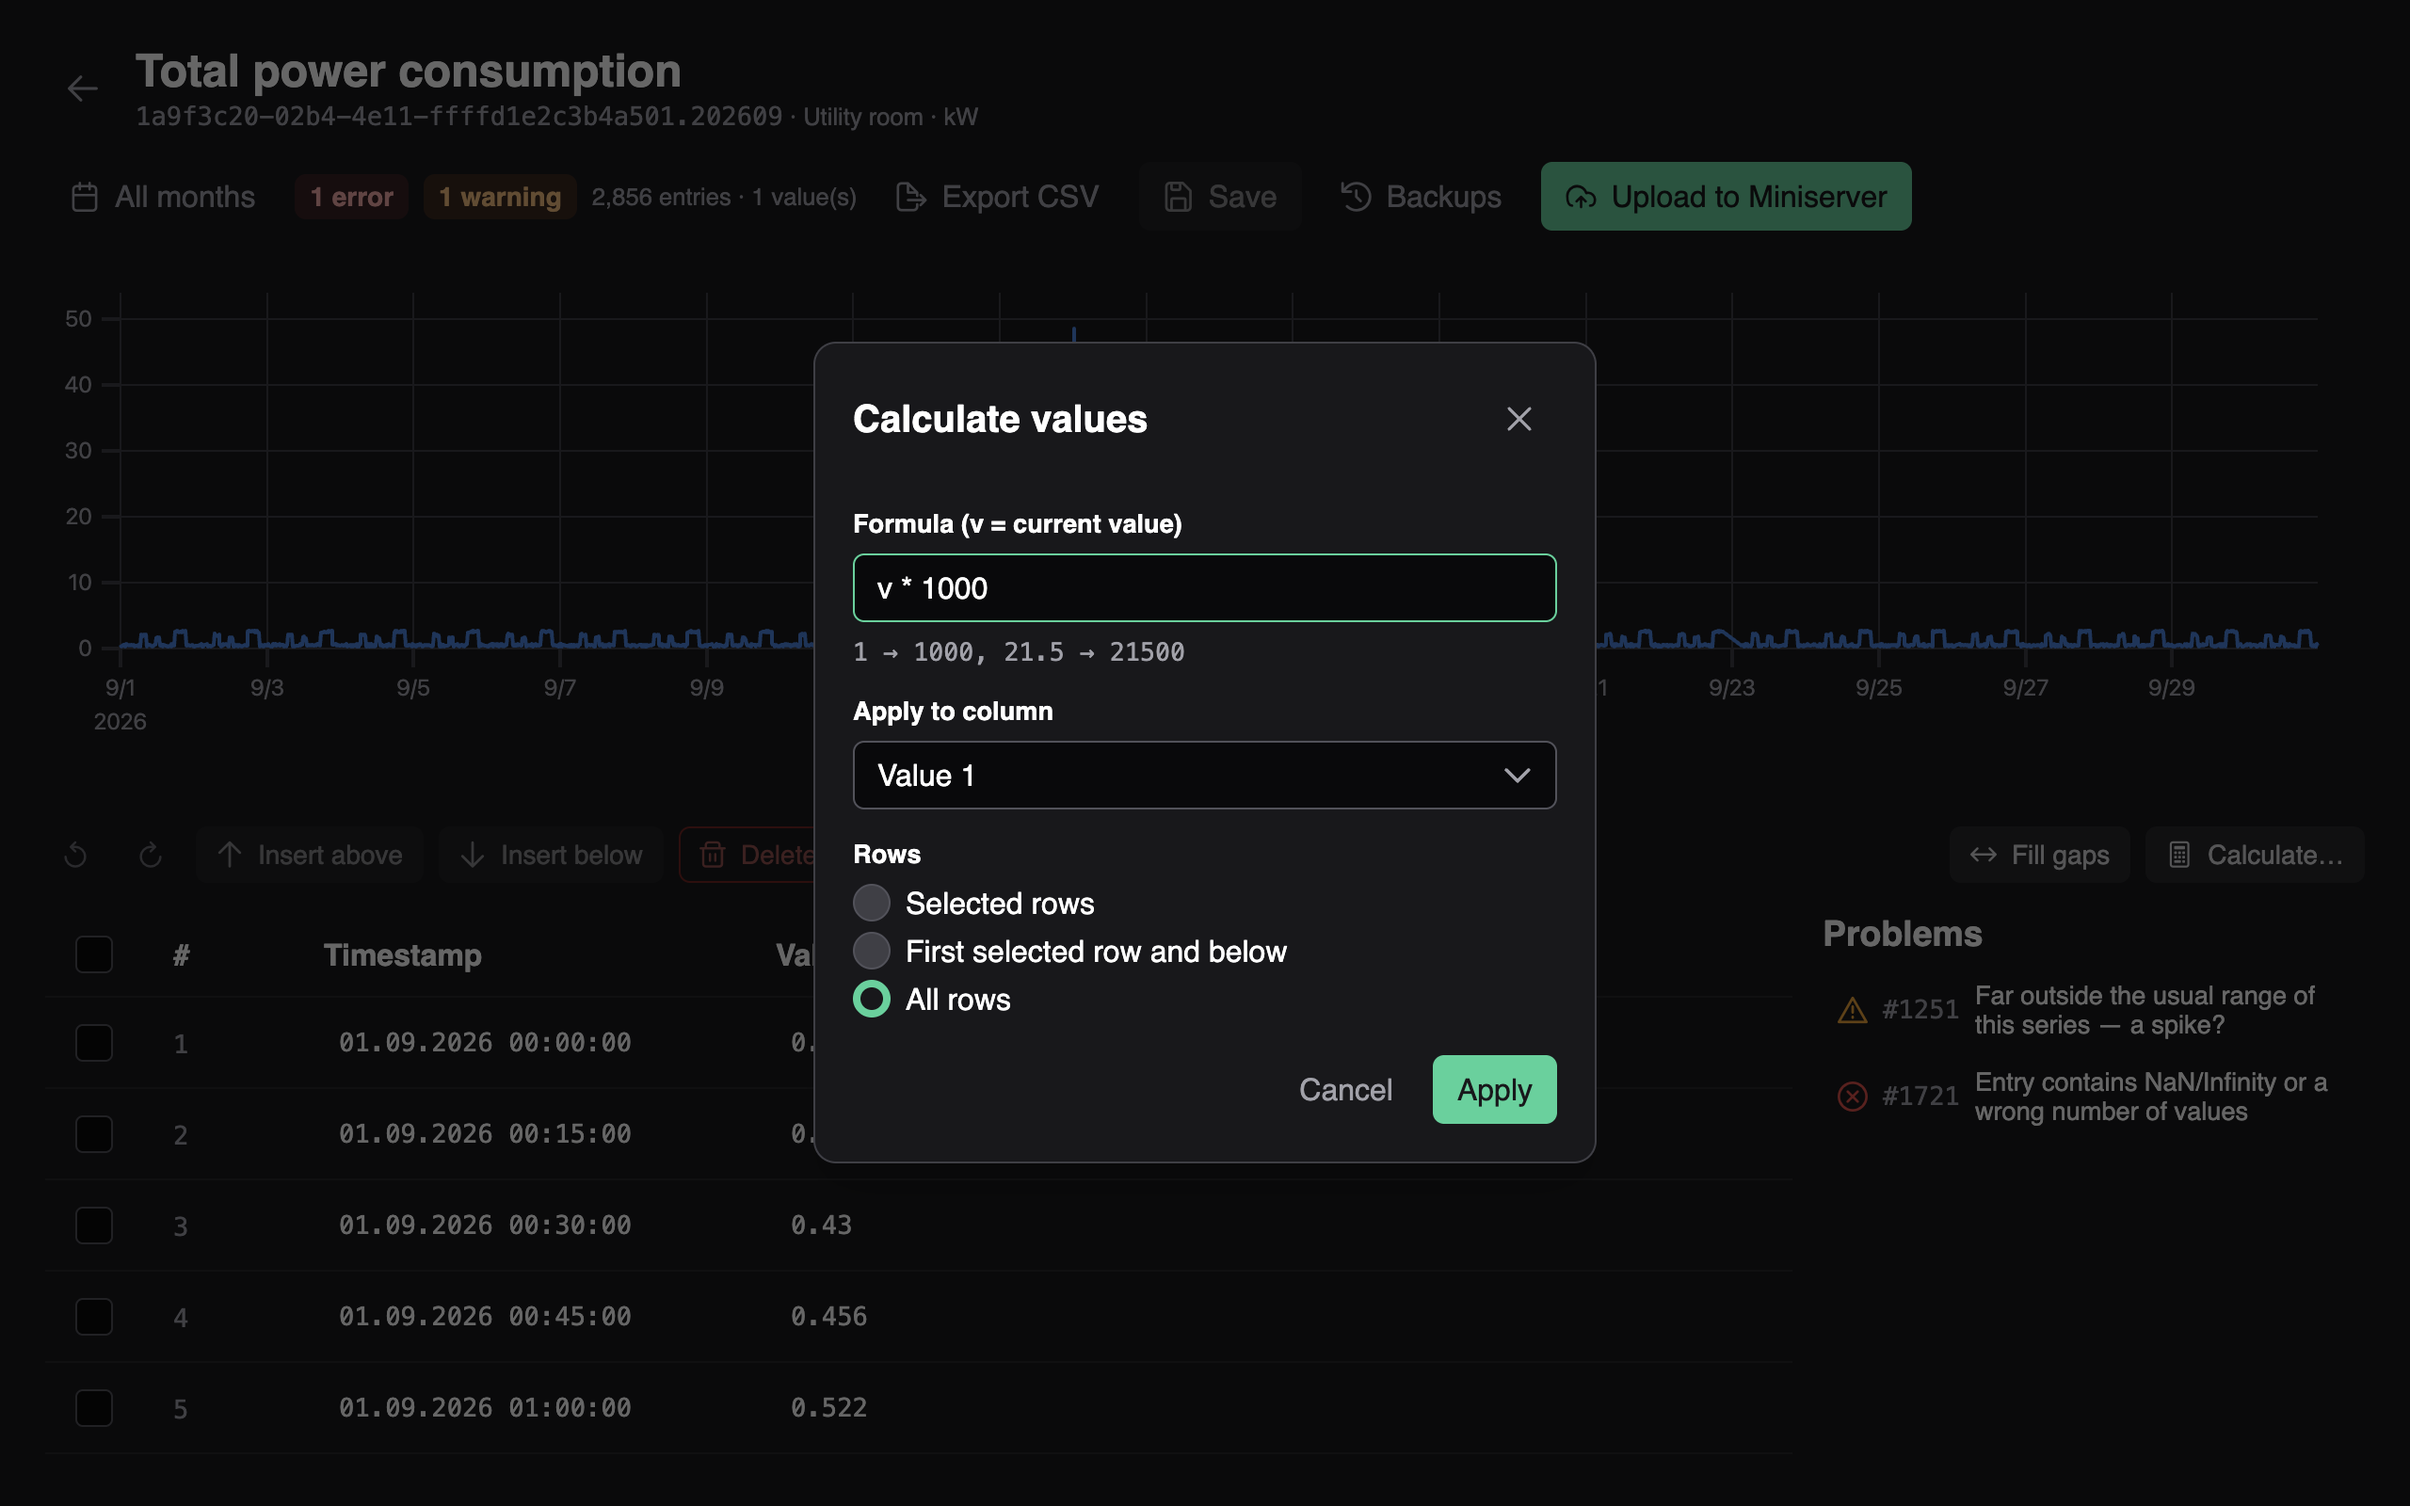
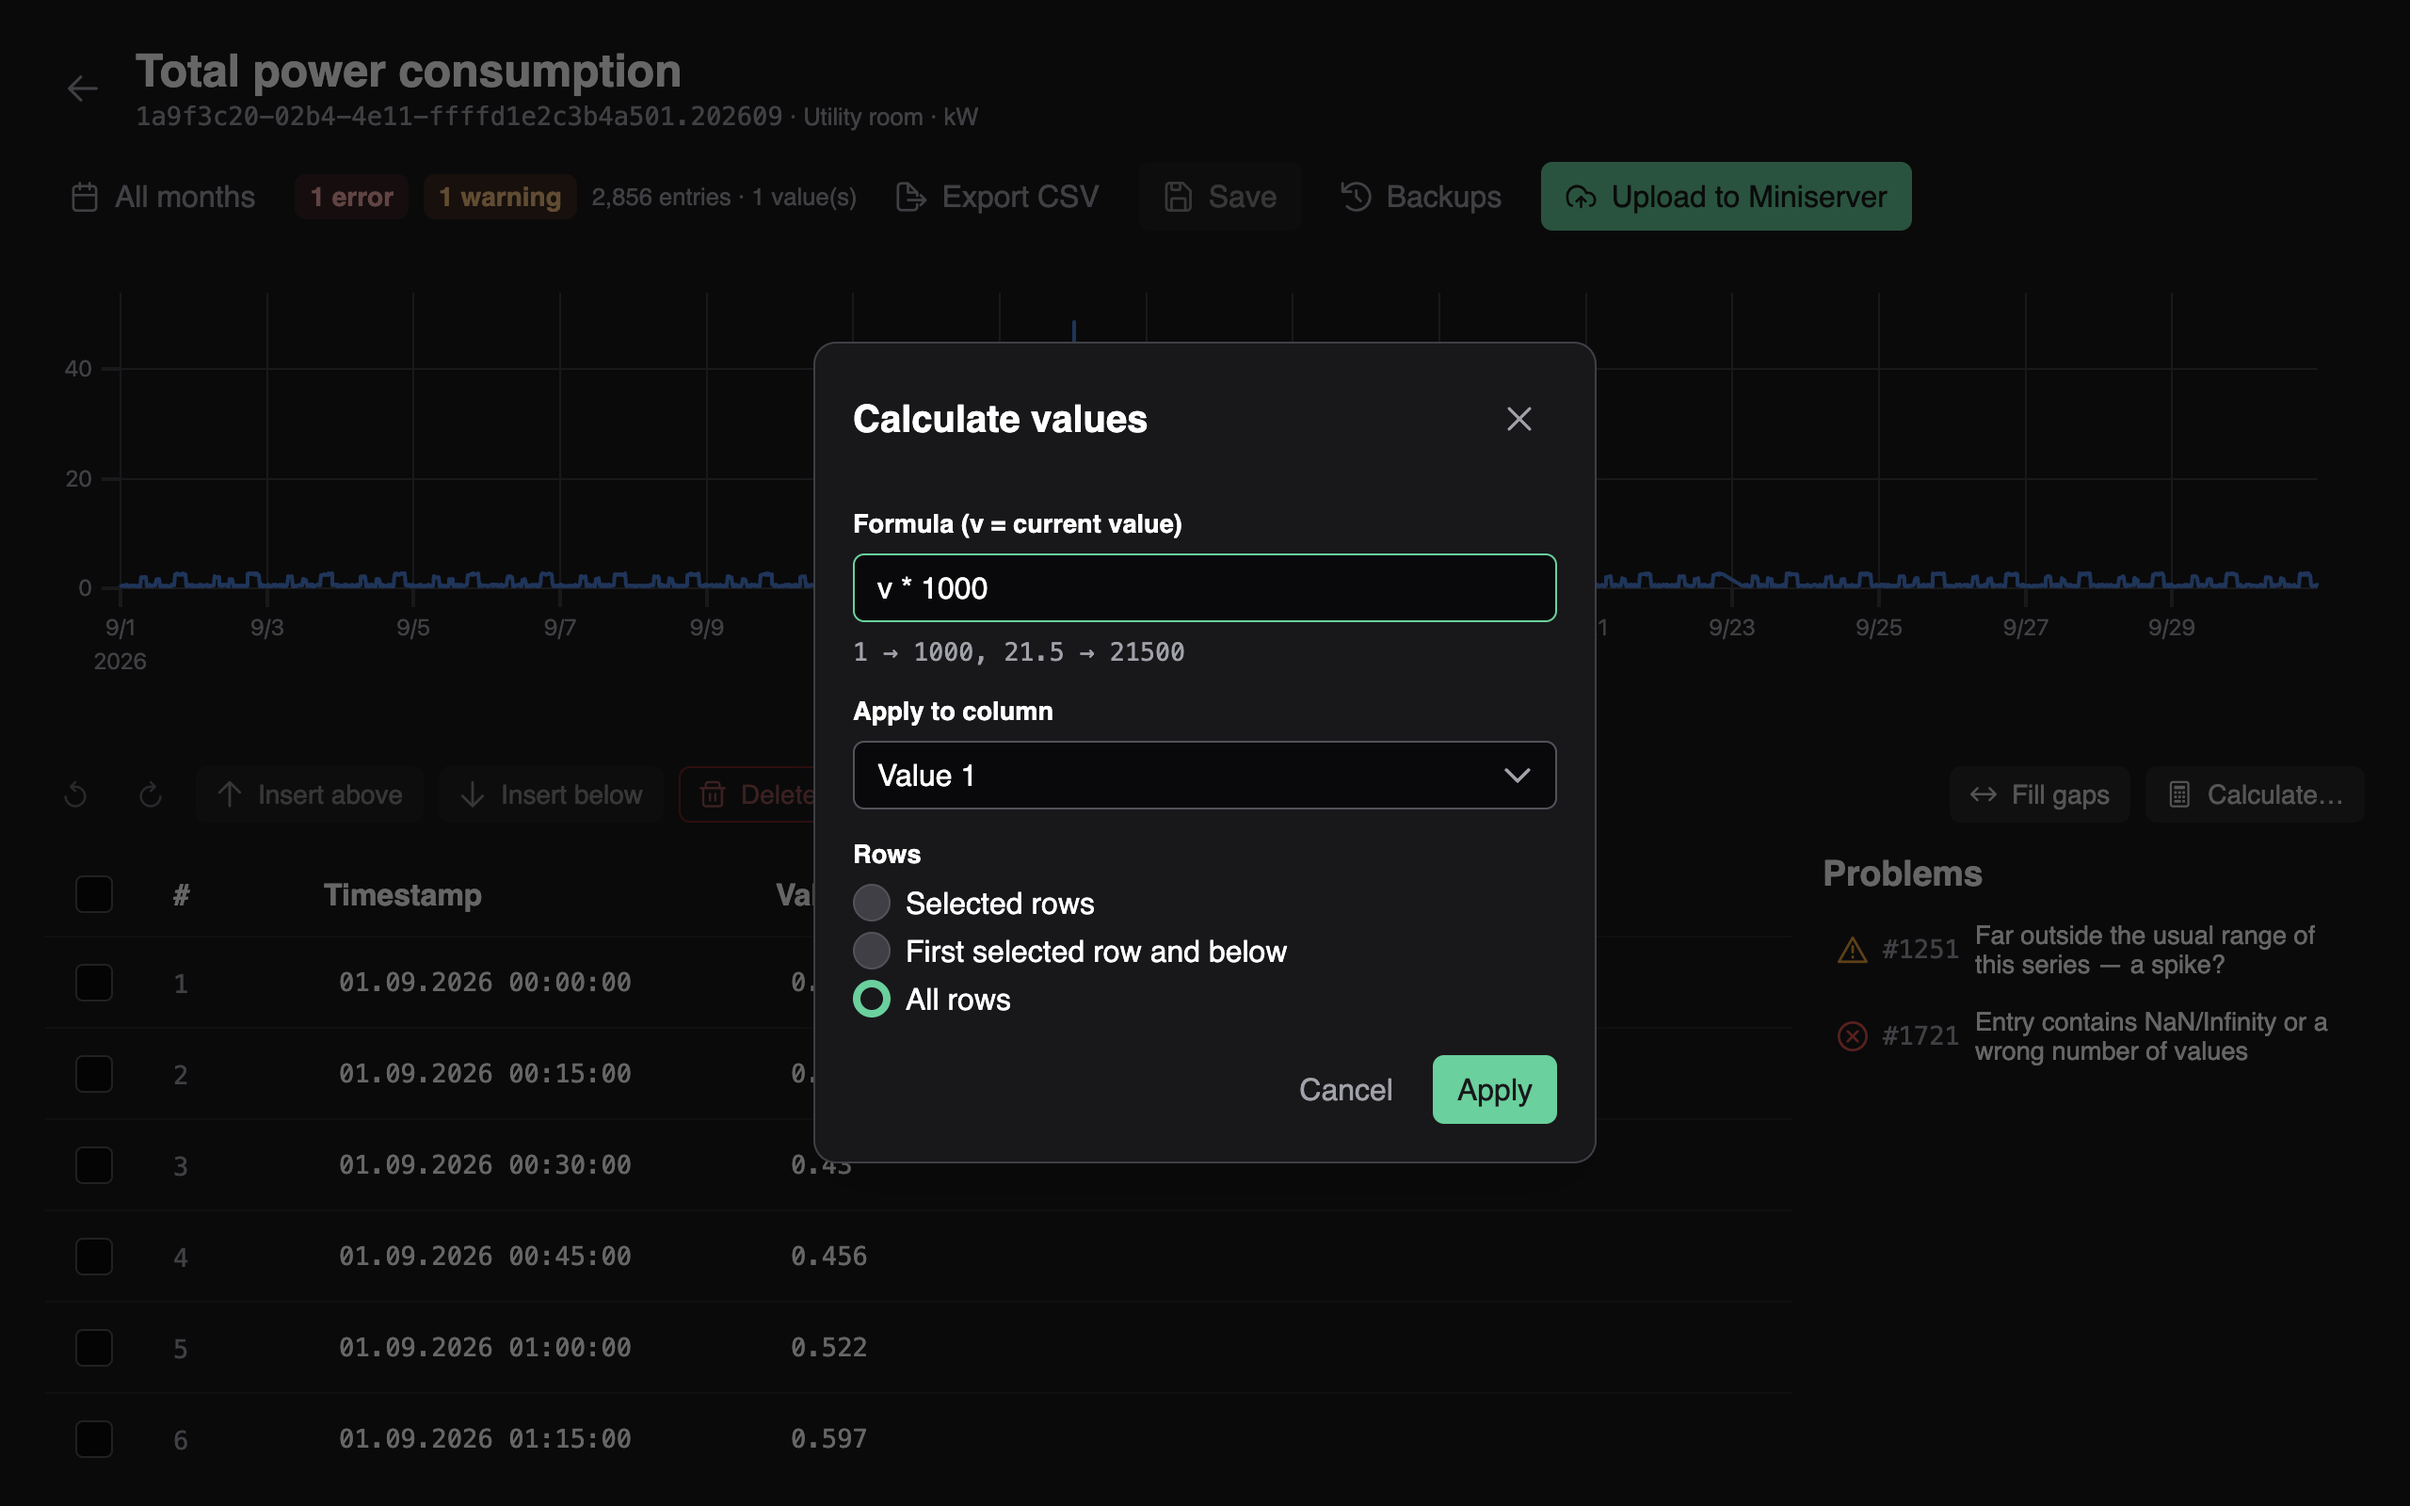
v0.9.0: ease-of-use pass for small windows, units, translations
- short windows (<= 700 px high): less padding, smaller chart → more grid rows
- narrow windows: file name moves under the description (<= 1200 px), size and
  date give way (<= 1000 px), so the status stays visible next to the row actions
- units from Loxone Config in the chart legend and the grid headers ("Value 1 (kW)")
- chart legend "Time" translated
- grid cells show 12 significant digits (no 0.30000000000000004); stored values
  change only when a cell is edited
- icon buttons: accessible names translated (were hard-coded English)
- version 0.9.0

diff --git a/src/renderer/src/views/BrowserView.vue b/src/renderer/src/views/BrowserView.vue
@@ -273,7 +273,7 @@ onBeforeUnmount(() => {
           icon="pi pi-refresh"
           severity="secondary"
           :loading="files.loading"
-          aria-label="Refresh"
+          :aria-label="t('browser.tipRefresh')"
           @click="files.refresh()"
         />
         <Button
@@ -282,7 +282,7 @@ onBeforeUnmount(() => {
           "
           icon="pi pi-folder-open"
           severity="secondary"
-          aria-label="Open local folder"
+          :aria-label="conn.offline ? t('browser.tipOpenThisFolder') : t('browser.tipOpenFolder')"
           @click="openCacheFolder"
         />
         <Button
@@ -328,7 +328,13 @@ onBeforeUnmount(() => {
       class="table"
     >
       <Column v-if="!conn.offline" selection-mode="multiple" header-style="width: 3rem" />
-      <Column field="name" :header="t('browser.colFile')" sortable>
+      <Column
+        field="name"
+        header-class="opt-file"
+        body-class="opt-file"
+        :header="t('browser.colFile')"
+        sortable
+      >
         <template #body="{ data }">
           <span class="mono">{{ data.name }}</span>
         </template>
@@ -348,15 +354,28 @@ onBeforeUnmount(() => {
             />
           </span>
           <div v-if="data.room" class="room">{{ data.room }}</div>
+          <div class="mono file-sub">{{ data.name }}</div>
         </template>
       </Column>
       <Column field="yyyymm" body-class="nowrap" :header="t('browser.colMonth')" sortable>
         <template #body="{ data }">{{ formatMonth(data.yyyymm) }}</template>
       </Column>
-      <Column field="size" body-class="nowrap" :header="t('browser.colSize')" sortable>
+      <Column
+        field="size"
+        header-class="opt"
+        body-class="nowrap opt"
+        :header="t('browser.colSize')"
+        sortable
+      >
         <template #body="{ data }">{{ formatSize(data.size) }}</template>
       </Column>
-      <Column field="modifiedAt" body-class="nowrap" :header="t('browser.colModified')" sortable>
+      <Column
+        field="modifiedAt"
+        header-class="opt"
+        body-class="nowrap opt"
+        :header="t('browser.colModified')"
+        sortable
+      >
         <template #body="{ data }">{{ formatDate(data.modifiedAt) }}</template>
       </Column>
       <Column field="status" body-class="nowrap" :header="t('browser.colStatus')" sortable>
@@ -376,7 +395,7 @@ onBeforeUnmount(() => {
               icon="pi pi-download"
               text
               severity="secondary"
-              aria-label="Download"
+              :aria-label="t('browser.tipDownload')"
               :disabled="!data.remote || !!files.transfer"
               :loading="busyRow === data.name"
               @click="downloadOne(data)"
@@ -385,7 +404,7 @@ onBeforeUnmount(() => {
               v-tooltip.left="t('browser.tipOpen')"
               icon="pi pi-chart-line"
               text
-              aria-label="Open"
+              :aria-label="t('browser.tipOpen')"
               :disabled="!!files.transfer"
               @click="openEditor(data)"
             />
@@ -393,7 +412,7 @@ onBeforeUnmount(() => {
               v-tooltip.left="t('months.tip')"
               icon="pi pi-calendar"
               text
-              aria-label="All months"
+              :aria-label="t('months.tip')"
               :disabled="!!files.transfer"
               @click="router.push(`/months/${data.name.slice(0, -7)}`)"
             />
@@ -403,7 +422,7 @@ onBeforeUnmount(() => {
               icon="pi pi-cloud-upload"
               text
               severity="warn"
-              aria-label="Upload"
+              :aria-label="t('browser.tipUpload')"
               :disabled="
                 (data.status !== 'local-newer' && data.status !== 'only-local') || !!files.transfer
               "
@@ -415,7 +434,7 @@ onBeforeUnmount(() => {
               icon="pi pi-trash"
               text
               severity="danger"
-              aria-label="Delete"
+              :aria-label="t('browser.tipDelete')"
               :disabled="!data.remote || !!files.transfer"
               @click="deleteTargets = [data]"
             />
@@ -523,5 +542,26 @@ onBeforeUnmount(() => {
 }
 .delete-list {
   margin: 0.5rem 0 0 1.25rem;
+}
+/* narrower windows: the file name moves under the description, then size and date give
+   way, so the status stays visible next to the row actions */
+.file-sub {
+  display: none;
+}
+@media (max-width: 1200px) {
+  :deep(.opt-file) {
+    display: none;
+  }
+  .file-sub {
+    display: block;
+    font-size: 0.7rem;
+    color: var(--p-text-muted-color);
+    word-break: break-all;
+  }
+}
+@media (max-width: 1000px) {
+  :deep(.opt) {
+    display: none;
+  }
 }
 </style>

diff --git a/src/renderer/src/views/EditorView.vue b/src/renderer/src/views/EditorView.vue
@@ -78,10 +78,17 @@ const isCurrentMonth = computed(() => isCurrentMonthName(props.filename))
 
 /** what Loxone Config says about this control: name, room, units */
 const entry = computed(() => useFilesStore().catalog[props.filename.slice(0, 35)])
-const units = computed(() => {
+const unitList = computed(() => {
   const m = /_([1-9])\.\d{6}$/.exec(props.filename)
-  return [...new Set(unitsFor(entry.value, m ? Number(m[1]) : null).filter((u) => u))].join(' / ')
+  return unitsFor(entry.value, m ? Number(m[1]) : null)
 })
+const units = computed(() => [...new Set(unitList.value.filter((u) => u))].join(' / '))
+const valueHeader = (v: number): string =>
+  t('editor.value', { n: v }) + (unitList.value[v - 1] ? ` (${unitList.value[v - 1]})` : '')
+// ponytail: 12 significant digits hide float noise (0.30000000000000004); the stored value is
+// untouched unless the cell is edited
+const cellValue = (x: number): string =>
+  Number.isFinite(x) ? String(Number(x.toPrecision(12))) : String(x)
 
 const selectedIndices = computed(() => selection.value.map((s) => s.index).sort((a, b) => a - b))
 
@@ -103,7 +110,7 @@ function commitValue(row: Row, valueIdx: number, event: Event): void {
   if (Number.isFinite(num)) {
     editor.setValue(row.index, valueIdx, num)
   } else {
-    input.value = String(row.values[valueIdx])
+    input.value = cellValue(row.values[valueIdx])
   }
 }
 
@@ -375,6 +382,7 @@ watch(
       <StatChart
         :records="editor.data.records"
         :value-count="editor.data.valueCount"
+        :units="unitList"
         :version="editor.chartVersion"
         @select="gotoRow"
       />
@@ -473,14 +481,10 @@ watch(
               />
             </template>
           </Column>
-          <Column
-            v-for="v in editor.data.valueCount"
-            :key="v"
-            :header="t('editor.value', { n: v })"
-          >
+          <Column v-for="v in editor.data.valueCount" :key="v" :header="valueHeader(v)">
             <template #body="{ data }">
               <InputText
-                :model-value="String(data.values[v - 1])"
+                :model-value="cellValue(data.values[v - 1])"
                 class="cell-input mono"
                 @change="commitValue(data, v - 1, $event)"
                 @keyup.enter="($event.target as HTMLInputElement).blur()"

diff --git a/src/renderer/src/components/StatChart.vue b/src/renderer/src/components/StatChart.vue
@@ -13,6 +13,8 @@ const { t, locale } = useI18n()
 const props = defineProps<{
   records: StatRecord[]
   valueCount: number
+  /** unit per value from Loxone Config, shown in the legend */
+  units?: (string | null)[]
   /** bump to force a data refresh after in-place edits */
   version?: number
 }>()
@@ -87,7 +89,7 @@ function autoAxisSize(
 }
 
 /** 320px on normal windows, shrinks on short ones so the entry grid stays usable */
-const chartHeight = (): number => Math.round(Math.min(320, Math.max(160, innerHeight * 0.32)))
+const chartHeight = (): number => Math.round(Math.min(320, Math.max(120, innerHeight * 0.28)))
 
 function makePlot(): void {
   if (!wrap.value) return
@@ -99,9 +101,9 @@ function makePlot(): void {
     height: chartHeight(),
     tzDate: (ts) => uPlot.tzDate(new Date(ts * 1000), 'Etc/UTC'),
     series: [
-      {},
+      { label: t('chart.time') },
       ...Array.from({ length: props.valueCount }, (_, i) => ({
-        label: t('chart.value', { n: i + 1 }),
+        label: t('chart.value', { n: i + 1 }) + (props.units?.[i] ? ` (${props.units[i]})` : ''),
         stroke: seriesColor(i),
         width: 2,
         points: { show: false }
@@ -159,8 +161,8 @@ watch(
   }
 )
 
-// theme or language changed → colors and series labels must be rebuilt
-watch([isDark, locale], () => makePlot())
+// theme, language or units changed → colors and series labels must be rebuilt
+watch([isDark, locale, () => props.units?.join()], () => makePlot())
 </script>
 
 <template>

diff --git a/src/renderer/src/views/MonthsView.vue b/src/renderer/src/views/MonthsView.vue
@@ -162,7 +162,7 @@ watch(
           icon="pi pi-arrow-left"
           text
           severity="secondary"
-          aria-label="Back"
+          :aria-label="t('editor.back')"
           @click="router.push('/browser')"
         />
         <div>
@@ -204,7 +204,12 @@ watch(
     </Message>
 
     <template v-if="chartRecords.length">
-      <StatChart :records="chartRecords" :value-count="valueCount" @select="onChartSelect" />
+      <StatChart
+        :records="chartRecords"
+        :value-count="valueCount"
+        :units="unitList"
+        @select="onChartSelect"
+      />
       <p class="hint">{{ t('months.hint') }}</p>
     </template>
 
@@ -249,7 +254,7 @@ watch(
             v-tooltip.left="t('browser.tipOpen')"
             icon="pi pi-chart-line"
             text
-            aria-label="Open"
+            :aria-label="t('browser.tipOpen')"
             @click.stop="openMonth(data.name)"
           />
         </template>

diff --git a/src/renderer/src/components/AppControls.vue b/src/renderer/src/components/AppControls.vue
@@ -37,7 +37,7 @@ const localeOptions = [
       :icon="isDark ? 'pi pi-sun' : 'pi pi-moon'"
       text
       severity="secondary"
-      aria-label="Theme"
+      :aria-label="t('browser.tipTheme')"
       @click="toggleDark"
     />
     <Button
@@ -45,7 +45,7 @@ const localeOptions = [
       icon="pi pi-cog"
       text
       severity="secondary"
-      aria-label="Settings"
+      :aria-label="t('settings.title')"
       @click="router.push('/settings')"
     />
   </div>

diff --git a/src/renderer/src/assets/main.css b/src/renderer/src/assets/main.css
@@ -29,3 +29,10 @@ body {
   flex-direction: column;
   gap: 1rem;
 }
+/* short windows: every pixel of height goes to the chart and the entry grid */
+@media (max-height: 700px) {
+  .view {
+    padding: 0.75rem 1rem;
+    gap: 0.5rem;
+  }
+}

diff --git a/src/renderer/src/locales/de.ts b/src/renderer/src/locales/de.ts
@@ -185,6 +185,7 @@ const de: typeof en = {
   chart: {
     resetZoom: 'Zoom zurücksetzen',
     resetZoomTip: 'Doppelklick auf das Diagramm setzt den Zoom ebenfalls zurück',
+    time: 'Zeit',
     value: 'Wert {n}'
   },
   settings: {

diff --git a/src/renderer/src/locales/en.ts b/src/renderer/src/locales/en.ts
@@ -181,6 +181,7 @@ export default {
   chart: {
     resetZoom: 'Reset zoom',
     resetZoomTip: 'Double-clicking the chart also resets the zoom',
+    time: 'Time',
     value: 'Value {n}'
   },
   settings: {
